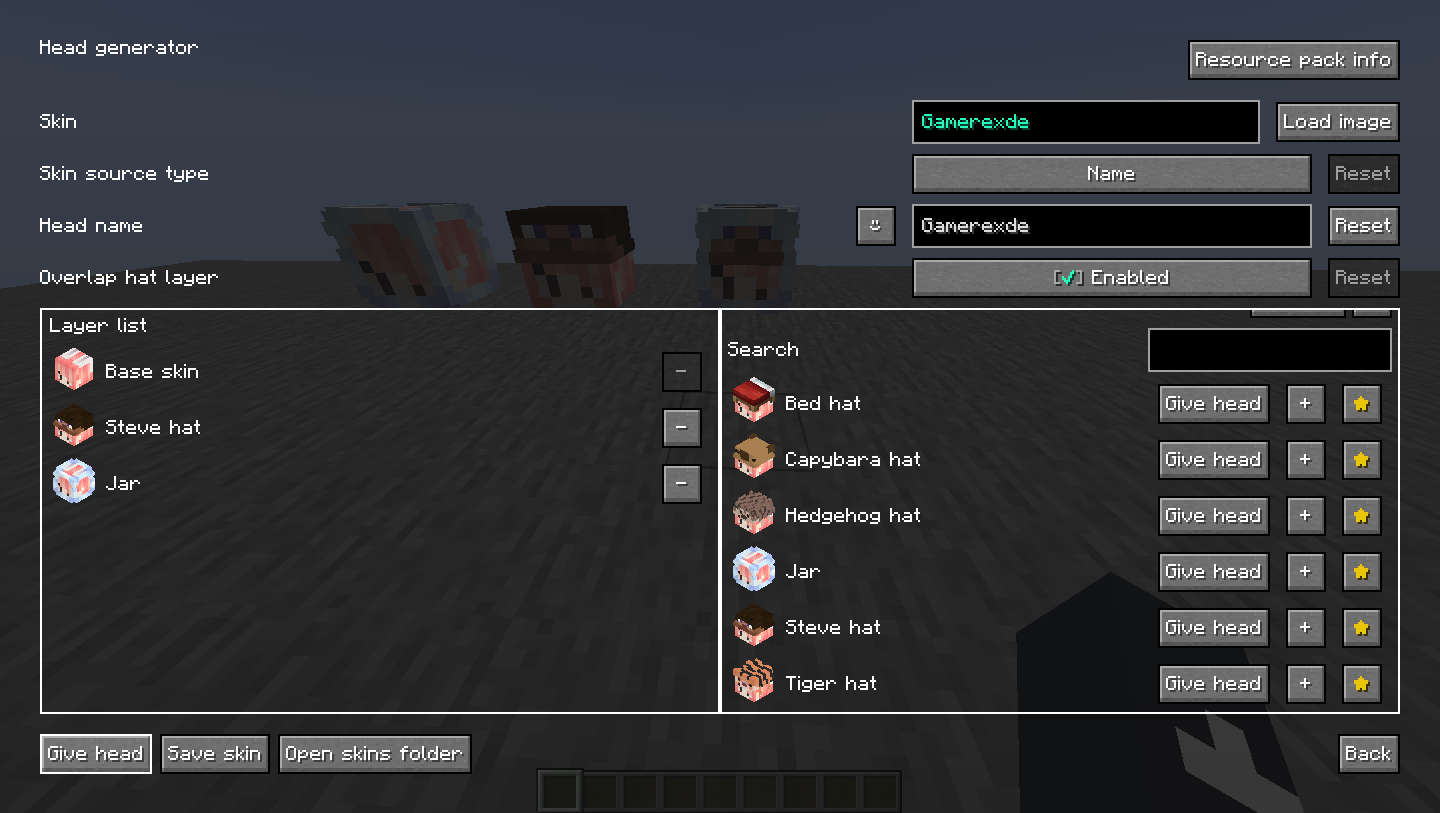
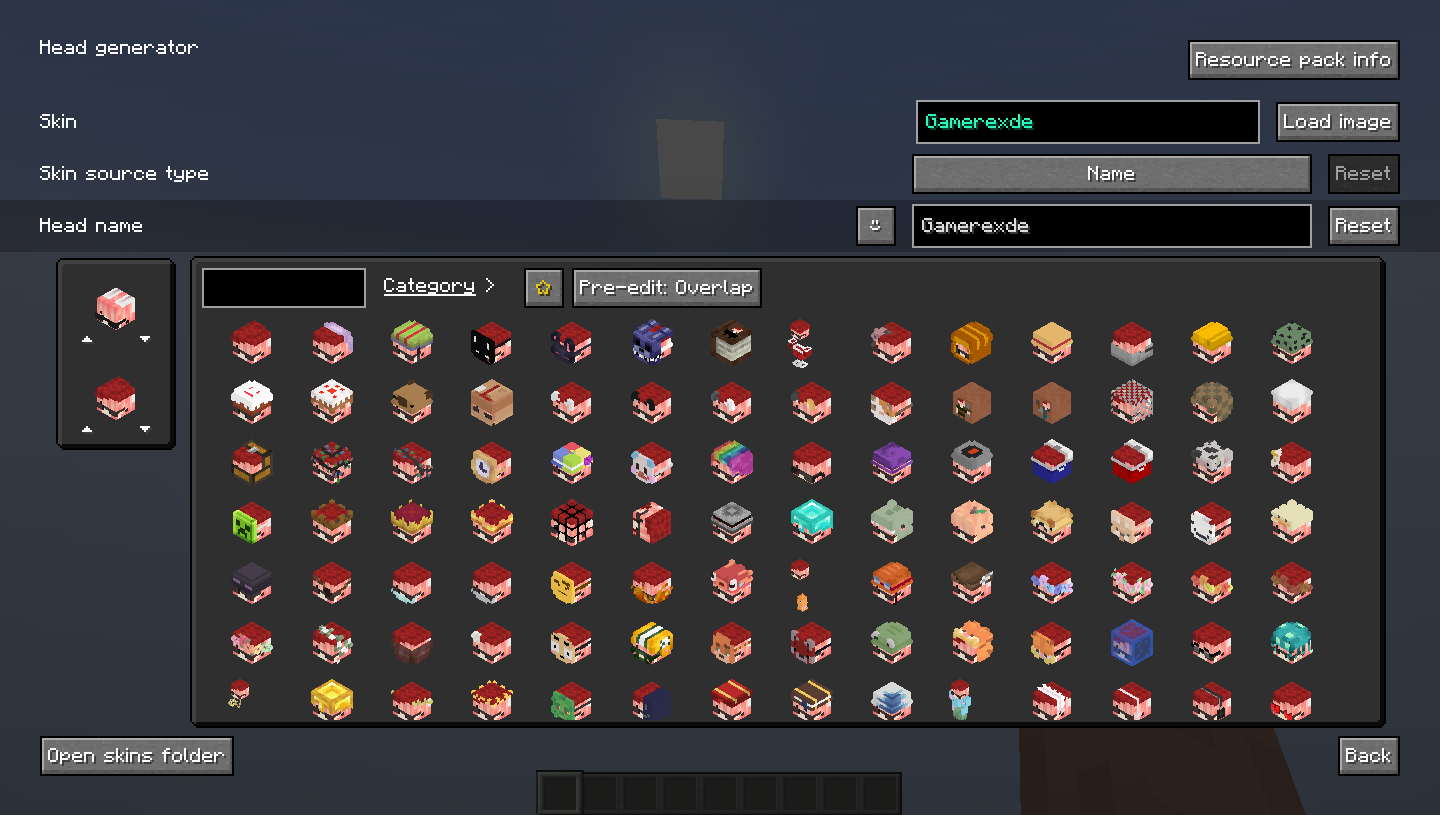
Updates readme, head generator documentation and screenshots

diff --git a/docs/en/wiki/head_generator/0.2.3_head_generator.md b/docs/en/wiki/head_generator/0.2.3_head_generator.md
@@ -1,0 +1,258 @@
+## How to create a resource pack for Head Generator
+
+To add custom heads to Head Generator using a resource pack, there are two different ways to generate skins: using "textures" and "models".
+
+## Changes in 0.2.3
+
+* ColorObject
+	* Adds the boolean field `requested`, by default it is true and optional, when set to true the parameter is added in head generator to be modified by the user, using this you can now modify more colors in the gui in addition to `selected_color`
+* TextureObject
+	* Adds the boolean field `requested`, by default it is true and optional, when set to true the parameter is added in head generator to be modified by the user, using this you can load more skins in addition to the base skin itself
+* Removes the watermark from the heads
+	* This should not normally affect you unless you use a mod like [DisguiseHeads](https://modrinth.com/mod/disguiseheads)
+* Now to reload the heads in head generator and update them to your resoure pack it will not work to close the gui and reopen it, you must reload the resoure pack (f3+T)
+* Add [OffsetObject](#OffsetObject), [Toggle offset](#Toggle-offset) and [Select destination](#Select-destination)
+
+### Textures
+
+1. Create a normal resource pack and place the head textures in the `assets/fzmm/textures/heads` folder. The textures should be 64x16 images or larger in the PNG format, with only the first 64x16 pixels being used.
+
+2. Use the resource pack like any other. When you go to the head generator screen, the heads will be added to the list and arranged alphabetically.
+
+3. To find the heads more easily, you can add them to your favorites.
+
+#### Skins
+Since 0.2.0 you can use 64x64 textures, if you add it as a layer and hit the save skin button it will be saved with the texture overlaying the skin, which can be used for simple skin edits.
+
+Note: no 64x64 skin is included in the default textures.
+
+#### Example
+
+You can check out the resource pack [FZMM Head generator example.zip](https://github.com/Zailer43/FZMM-Mod/files/10303878/FZMM.Head.generator.example.zip) to see how it's done.
+
+This example resource pack adds the following textures:
+- Blue mask
+- Ocelot mask
+
+### Models
+
+To add custom heads to Head Generator using models, follow these steps:
+
+1. Create a JSON file in the following folder: `assets/fzmm/fzmm_models/heads`. The JSON files support the following structure:
+
+```json5
+{
+	"paintable": boolean, // If enabled, it will be added to the "Paintable" category, optional, default false
+
+	"is_editing_skin_body": boolean, // If enabled, it will be added to the "Body" category and the preview of the entire skin will be displayed, optional, default false
+
+	"first_result": boolean, // If it is to be displayed as the first result in the list of heads, optional, default false
+
+	"textures": TextureObject[], // optional
+
+	"colors": ColorObject[], // optional
+
+	"offsets" OffsetObject[], // optional
+
+	"steps": StepObject[]
+}
+```
+2. Use the resource pack like any other. When you go to the head generator screen, the heads will be added to the list and arranged alphabetically.
+
+3. To find the heads more easily, you can add them to your favorites.
+
+#### Objects
+
+##### TextureObject
+
+```json5
+{
+	"path": String, // The path of the texture in the resource pack, for example: "fzmm:textures/model_textures/texture.png"
+
+ 	"id": String, // The id used to identify the texture for use
+
+	"requested": boolean, // Whether a image field will be displayed to the user to change the value, optional, by default true
+}
+```
+
+##### ColorObject
+
+```json5
+{
+	"color_hex": String, // default color, if not specified the default color is #FFFFFF
+  // Example: #FFFFFF
+
+	"id": String, // The id used to identify the color for use,
+
+	"requested": boolean, // Whether a color field will be displayed to the user to change the value, optional, default true
+}
+```
+
+##### OffsetObject
+
+```json5
+{  
+	"id": String, // To identify the offset when you want to activate or deactivate it
+
+	"requested": boolean, // Whether a slider will be displayed to the user to change the value, optional, by default true
+
+	"value": byte, // To determine the pixels to be offset, optional, by default 0
+
+	"min_value": byte, // Is the minimum value of `value` in the slider, optional, by default 0,
+
+	"max_value": byte, // Is the maximum value of `value` in the slider, optional, by default 8
+
+	"axis": String, // Determines whether it is the X or Y axis, `X` for x and `Y` for `Y`
+
+	"enabled": boolean // If enabled by default, optional, default false, when enabled the pixels are offset,
+	// can be toggled with StepObject "toggle_offset"
+}
+```
+
+#### Possible StepObjects
+
+##### Select texture
+Selects a texture that will be used in the following steps. The default selected texture is the base skin, its id is `base_skin`
+
+```json5
+{
+	"type": "select_texture",
+	"texture_id": String // The id defined in textures
+}
+```
+
+##### Select color
+Selects the color to be used in the next step, by default there is no color selected, the only color that can currently be modified via GUI is `selected_color`.  White is used if no color is found
+
+```json5
+{
+	"type": "select_color",
+	"color_id": String // The id defined in colors
+}
+```
+
+##### Delete
+Deletes pixels from the selected area in the final texture
+
+```json5
+{
+	"type": "delete",
+	"area": Area // the area where the pixels will be deleted
+}
+```
+
+##### Copy
+Copies an area from the selected texture and places it in the final texture
+
+```json5
+{
+	"type": "copy",
+
+	"source": Area, // The area of the selected texture where the pixels will be copied
+
+	"destination": Area, // The area of the final texture where the copied pixels will be placed,
+	// this value is optional and if not specified, the same values of "source" will be used
+
+	"add_hat_layer": boolean, // if true, it adds the first layer of the source in the destination
+	// and adds the second layer of both, this value ignores "hat_layer" of source and destination,
+	// this value is optional and by default is false
+
+	"overlap_source_hat": boolean, // if true, it adds the first and second layer of the source in the destination,
+	// this value ignores "hat_layer" of source and destination, this value is optional and by default is false
+  
+	"degrees": int, // rotates the texture when placing it in the destination but rotating it from its center,
+	// this value is optional and by default is 0
+
+	"mirror_horizontal": boolean, // applies a horizontal mirror to the copied texture,
+	// it is applied after rotating with degrees, this value is optional and by default is false
+
+	"mirror_vertical": boolean // applies a vertical mirror to the copied texture,
+	// it is applied after rotating with degrees, this value is optional and by default is false
+}
+```
+
+##### Fill color
+Fills an area with the selected color using the specified algorithm
+
+```json5
+{
+	"type": "fill_color",
+
+	"area": Area, // the area to be filled with the selected color
+
+	"algorithm": String // the type of algorithm to be used to obtain the color, possible algorithms:
+	// * solid: uses the selected color without modifying
+	// * multiply: multiplies the selected color and the color of the pixel to be changed,
+	// obtains a result more similar to the selected color if the selected pixel is in grayscale and is whiter
+}
+```
+
+##### Desaturate
+Removes the color of the selected area and converts it to grayscale
+
+In the default resource pack it is only used by Fill color with multiply algorithm in the `Paint head`, as it desaturates the color of the specified skin, since in this case it cannot be desaturated previously in a resource pack
+
+```json5
+{
+	"type": "desaturate",
+
+	"area": Area // the area to be desaturated
+}
+```
+
+##### Toggle offset
+Step to enable or disable the offset, so that it only takes effect when you want it to, the offset is applied in the destination of all the steps to which it can be applied while it is enabled
+
+```json5
+{
+	"type": "toggle_offset",
+
+	"offset_id": String, // The id defined in offsets
+
+	"enabled": boolean // new value
+}
+```
+
+##### Select destination
+Select a texture that will be used in the following steps as the target of the modifications. The texture selected by default is the destination skin, its id is `destination_skin`
+
+```json5
+{
+	"type": "select_texture",
+	"texture_id": String // The id defined in textures
+}
+```
+
+##### Area
+Represents an area in a Minecraft skin model, with information about its position, size, and whether it includes the hat layer or not
+
+```json5
+{
+	"offset": String, // The offset of the area
+	// Possible values are "HEAD", "BODY", "RIGHT_ARM", "RIGHT_LEG", "LEFT_LEG", "LEFT_ARM"
+
+	"hat_layer": boolean, // // Whether the area is the hat layer
+
+	"x": int, // The x coordinate of the top-left corner of the area
+
+	"y": int, // The y coordinate of the top-left corner of the area
+
+	"width": int, // The width of the area
+
+	"height": int // The height of the area
+}
+```
+
+
+
+#### Examples
+You can find examples of the models in: https://github.com/Zailer43/FZMM-Mod/tree/9130f242b5acab1a508b1cc367870b6ffc5754df/src/main/resources/resourcepacks/fzmm_default_heads/assets/fzmm/fzmm_models/heads
+
+## Q: Can I generate a head without internet?
+A: You can't, you need to have internet to access the mineskin API and send them the skin, so they upload it to a minecraft account, and then give you the value of the skin, you also need internet to load the skin.
+
+## Q: Can I speed up the generation of heads?
+A: You can do it by associating **your Google account** in [mineskin](https://mineskin.org/apikey) and entering your API Key in the mod configuration, it will make uploading skins **1-2 seconds faster**
+
+## Q: Where did you get the heads that the mod currently contains
+A: Mostly from [NameMC](https://namemc.com) and some from [Minecraft-Heads](https://minecraft-heads.com), I have cropped them and deleted the unnecessary pixels of the head

diff --git a/README.md b/README.md
@@ -1,4 +1,3 @@
-
 # FZMM-Mod
 
 
@@ -16,7 +15,7 @@
 A fabric mod that is mainly for editing or creating NBT of items in creative, but it also has a few utilities.
 
 ## How to use?
-The default key to use the mod is `Z` (can be changed in controls), there are also some client-side commands with `/fzmm`
+**The default key to use the mod is `Z`** (can be changed in controls), there are also some client-side commands with `/fzmm`
 
 ## Dependencies
 * [owo-lib](https://modrinth.com/mod/owo-lib)
@@ -25,13 +24,14 @@ The default key to use the mod is `Z` (can be changed in controls), there are al
 ## Features
 
 ### Head generator
-Modify heads in seconds and get the skin instantly, with the "textures" option you can add accessories, glasses, hats, masks, beards, etc.
-and with the "models" option you can turn your skin into a plushie/mini version, put a pixel art of your skin on a book cover, decapitated and add accessories with the color of your choice.
+Easily customize your character's head in seconds and instantly apply the new skin. The head generator allows you to add accessories like glasses, hats, masks, beards, and more. You can also transform your skin into a plushie or mini version, or create a pixel art representation of your skin for a book cover.
 
-Currently, the default resource pack comes with:
+The default resource pack currently includes:
 
-- 219 texture heads
-- 21 model heads
+- 222 texture heads
+- 42 model heads
+
+For instructions on how to add your own custom heads to the head generator, please refer to the [Head Generator Wiki](docs/en/wiki/head_generator/README.md)
 
 <details>
 
@@ -49,6 +49,8 @@ Currently, the default resource pack comes with:
 
 <img src="docs/images/head_generator_gui_layers.png" alt="Head generator gui layers" width="800">
 
+<img src="docs/images/head_generator_gui_overlay.png" alt="Head generator gui overlay" width="800">
+
 </details>
 
 ### Imagetext
@@ -60,31 +62,24 @@ Types of display:
 * Book page
 * Book tooltip
 * Hologram (armor stands)
-* Sign 
+* Sign
+* Text display
 
-#### Lore
+Algorithms:
 
-<img src="docs/images/imagetext_lore.png" alt="Imagetext lore" width="200">
+* Characters
+* Braille
 
-<details>
-<summary>Images</summary> 
+| Lore             | Book page           | Book tooltip           |
+| ---------------- | ------------------- | ---------------------- |
+| <img src="docs/images/imagetext_lore.png" alt="Imagetext lore" width="200"> | <img src="docs/images/imagetext_book_page.png" alt="Imagetext book page" width="200"> | <img src="docs/images/imagetext_book_tooltip.png" alt="Imagetext book tooltip" width="200"> |
+| Hologram         | Sign                | Text display                       |
+| <img src="docs/images/imagetext_hologram.png" alt="Imagetext hologram" width="200"> | <img src="docs/images/imagetext_sign.png" alt="Imagetext sign" width="200"> | <img src="docs/images/imagetext_text_display.png" alt="Imagetext text display" width="200">                       |
 
+#### Braille
 
-#### Book page
+<img src="docs/images/imagetext_braille.png" alt="Imagetext braille" width="200">
 
-<img src="docs/images/imagetext_book_page.png" alt="Imagetext book page" width="200">
-
-#### Book tooltip
-
-<img src="docs/images/imagetext_book_tooltip.png" alt="Imagetext book tooltip" width="200">
-
-#### Hologram
-
-<img src="docs/images/imagetext_hologram.png" alt="Imagetext hologram" width="200">
-
-#### Sign
-
-<img src="docs/images/imagetext_sign.png" alt="Imagetext sign" width="200">
 
 #### GUI
 
@@ -138,13 +133,9 @@ It also allows 128x128 skins.
 <details>
 <summary>Images</summary>
 
-#### Skin 64x64
-
-<img src="docs/images/player_statue_64.png" alt="Player statue skin 64x64" width="200">
-
-#### Skin 128x128
-
-<img src="docs/images/player_statue_128.png" alt="Player statue skin 128x128" width="200">
+| Skin 64x64 | Skin 128x128 |
+|------------|--------------|
+| <img src="docs/images/player_statue_64.png" alt="Player statue skin 64x64" width="200"> | <img src="docs/images/player_statue_128.png" alt="Player statue skin 128x128" width="200"> |
 
 #### GUI
 
@@ -231,9 +222,11 @@ All types of loot chest, or in other words: a list of chests which each time you
 ### Resource packs
 
 * Resource packs that modify how the heads look in the hands as it affects how the Player Statue looks
-  Examples:
-  - [Corrected Mob Heads](https://modrinth.com/resourcepack/corrected-mob-heads)
-  - [Shelf+](https://www.curseforge.com/minecraft/texture-packs/shelf)
+  
+  	Examples:
+  
+  	- [Corrected Mob Heads](https://modrinth.com/resourcepack/corrected-mob-heads)
+  	- [Shelf+](https://www.curseforge.com/minecraft/texture-packs/shelf)
 
 ## Translations
 To contribute with the translation of a language or fix a bug in a language other than English you must use the [Crowdin project of the mod](https://crowdin.com/project/fzmm-mod), if you don't find your language, and you want to translate it you can suggest it with an issue or post it in discord.

diff --git a/docs/en/wiki/head_generator/README.md b/docs/en/wiki/head_generator/README.md
@@ -7,6 +7,9 @@ and with the "models" option you can turn your skin into a plushie/mini version,
 # Versions
 Versions are only added when there was a change, if the version you are using does not appear it means that there were no changes, so you must go to the most recent one.
 
+## [0.2.3](./0.2.3_head_generator.md)
+Allows the use of parameters in the GUI, adds offset, other changes
+
 ## [0.2.0](./0.2.0_head_generator.md)
 Add models to head generator
 
